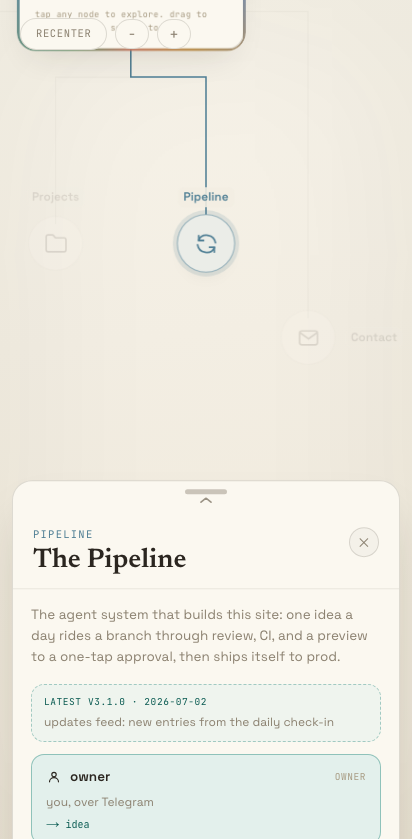
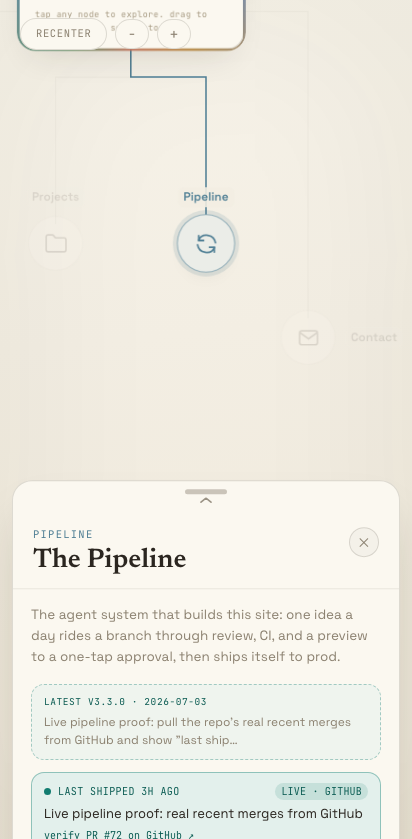
qa: make pipeline visual snapshot deterministic for live GitHub feed
The v3.3.0 LiveShipped block fetches the repo's latest merge from GitHub
and labels it off the wall clock, so the pipeline panel snapshot drifted
with every push and every passing hour. Freeze the clock and stub the
commits endpoint with one fixed commit in the pipeline visual test, then
regenerate the desktop and mobile baselines. The snapshot still covers
the real live block; it no longer goes red on unrelated merges or time.

diff --git a/e2e/visual.spec.ts b/e2e/visual.spec.ts
@@ -15,6 +15,36 @@ async function mapReady(page: Page) {
   });
 }
 
+// The pipeline panel renders LiveShipped, which fetches the repo's latest merge
+// from GitHub's public API and labels it "last shipped Xh ago" off the wall
+// clock. Both are non-deterministic (network + time), so the raw panel can never
+// have a stable baseline. We freeze the clock and stub the endpoint with one
+// fixed commit dated a fixed offset before it, so the live block renders
+// identical bytes every run - the snapshot still covers the real component, it
+// just no longer drifts with the calendar or the latest push.
+const PIPELINE_NOW = "2026-06-30T12:00:00.000Z";
+const PIPELINE_FEED = [
+  {
+    sha: "7baa5d0f1e2d3c4b5a6978800000000000000000",
+    html_url: "https://github.com/sbrick26/auto-portfolio/commit/7baa5d0",
+    commit: {
+      message: "Live pipeline proof: real recent merges from GitHub (#72)",
+      committer: { date: "2026-06-30T09:00:00.000Z" }, // 3h before PIPELINE_NOW
+    },
+  },
+];
+
+async function stubPipelineFeed(page: Page) {
+  await page.clock.setFixedTime(new Date(PIPELINE_NOW));
+  await page.route("**/api.github.com/**", (route) =>
+    route.fulfill({
+      status: 200,
+      contentType: "application/json",
+      body: JSON.stringify(PIPELINE_FEED),
+    }),
+  );
+}
+
 test.beforeEach(async ({ page }) => {
   await page.emulateMedia({ reducedMotion: "reduce" });
 });
@@ -53,6 +83,7 @@ test("project detail looks right @visual", async ({ page }) => {
 });
 
 test("pipeline panel looks right @visual", async ({ page }) => {
+  await stubPipelineFeed(page);
   await page.goto("/");
   await mapReady(page);
   await page.getByRole("button", { name: "Pipeline", exact: true }).click();